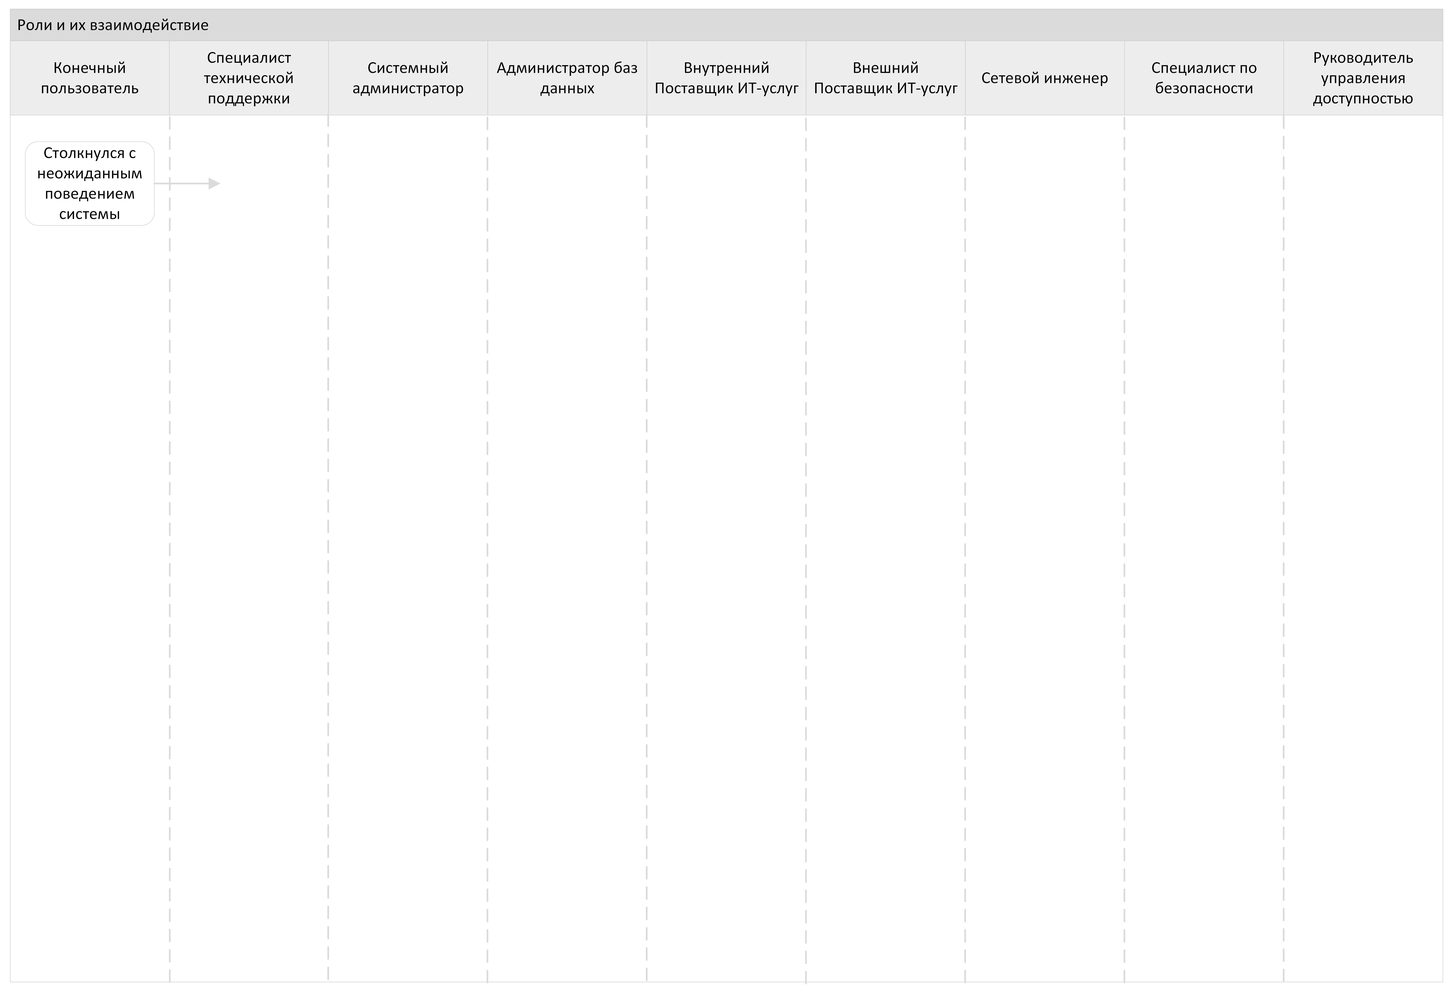
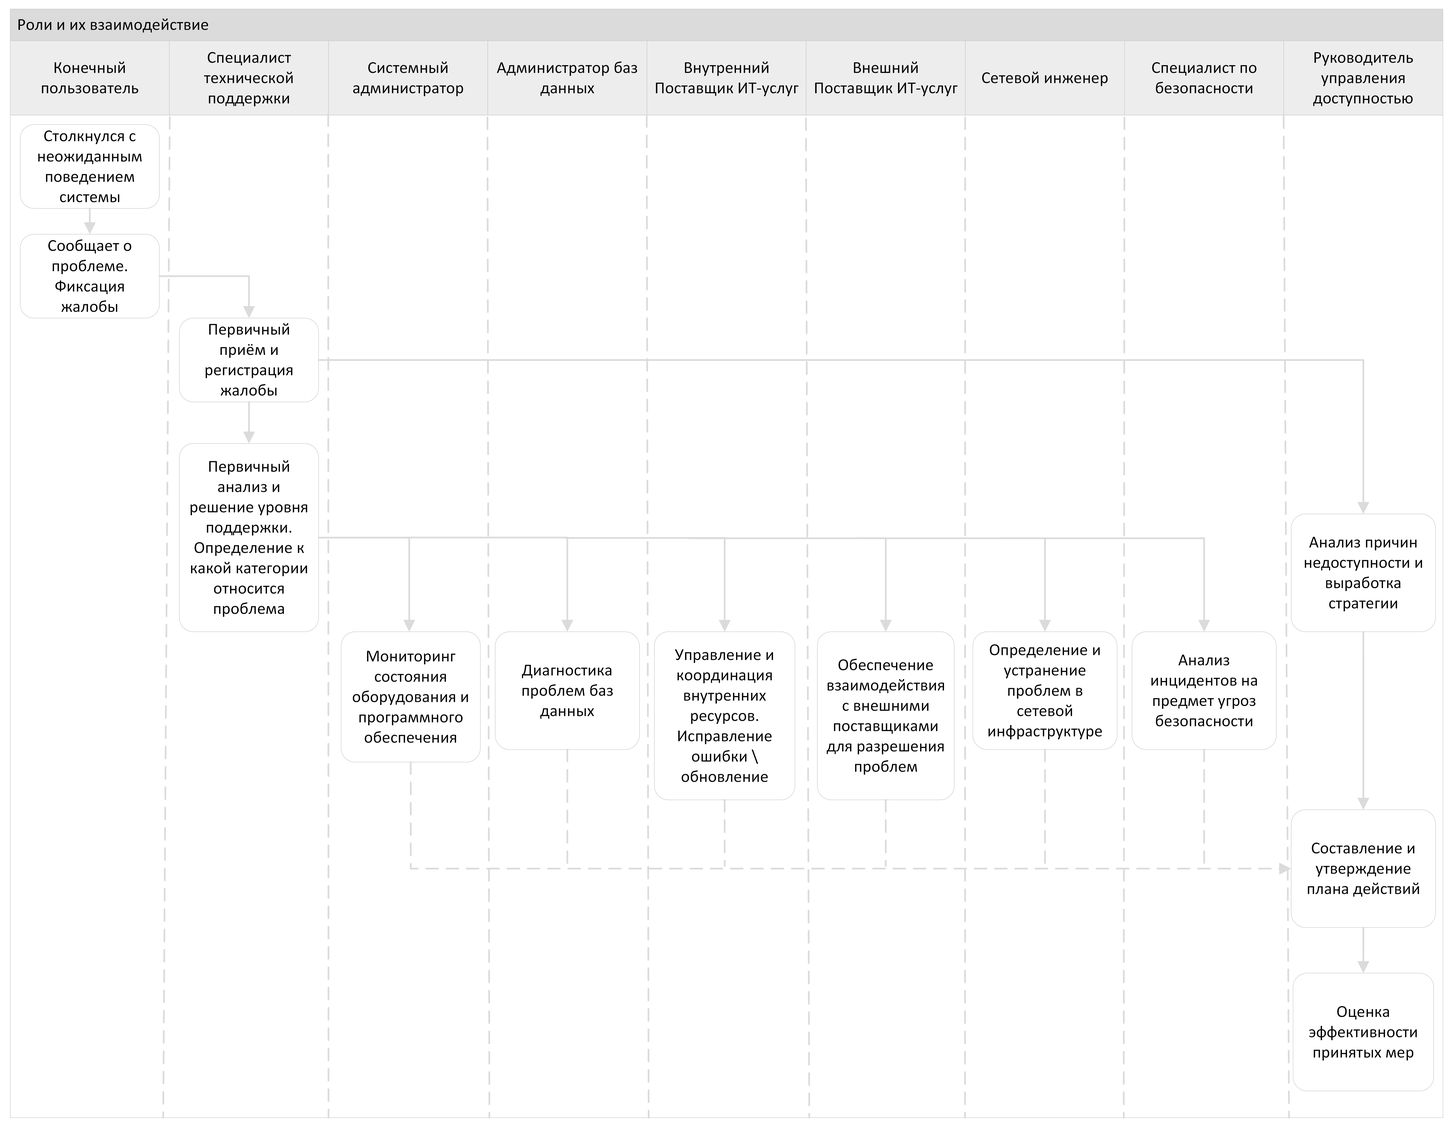
add 4, 5.1

diff --git a/doc.md b/doc.md
@@ -110,62 +110,45 @@
 - **Эксплуатационный отдел**: отвечает за надежность оборудования и систем, включая наладку и обслуживание IT-компонентов, используемых в производственных процессах.
 - **Конечные пользователи**: персонал, который в своей работе зависит от доступности IT-ресурсов.
 
-Задействованные Роли:
-- Конечный пользователь
-- Специалист технической поддержки
-- Системный администратор
-- Администратор баз данных
-- Внутренний Поставщик ИТ-услуг
-- Внешний Поставщик ИТ-услуг
-- Сетевой инженер
-- Специалист по безопасности
-- Руководитель процесса управления доступностью
-
-// TODO:
 ![Схема 2 - Общая схема взаимодействия ролей управления доступностью](./BPMN1.png "Общая схема взаимодействия ролей управления доступностью")
 
-1. **Конечный пользователь:**
-   - Событие запуска: Запрос на доступ или сообщение об ограничении доступа.
-   - Событие окончания: Получение доступа к необходимым ресурсам или информация об устранении ограничения.
-
-2. **Специалист технической поддержки:**
-   - Событие запуска: Получение заявки на техническую помощь от конечного пользователя.
-   - Событие окончания: Предоставление решения или направление заявки соответствующему специалисту.
-
-3. **Системный администратор:**
-   - Событие запуска: Запрос на изменение конфигураций системы для обеспечения доступности.
-   - Событие окончания: Выполнение необходимых настроек и подтверждение об успешном изменении.
-
-4. **Администратор баз данных:**
-   - Событие запуска: Требование обеспечения доступа к данным или об устранении проблем с базой данных.
-   - Событие окончания: Восстановление функционирования базы данных или предоставление нужного доступа к данным.
-
-5. **Внутренний Поставщик ИТ-услуг:**
-   - Событие запуска: Поступление внутреннего заказа на ИТ-сервисы или инфраструктуру.
-   - Событие окончания: Выполнение заказа и предоставление службы/ресурса.
-
-6. **Внешний Поставщик ИТ-услуг:**
-   - Событие запуска: Оформление запроса на обслуживание или предоставление внешних ИТ-услуг.
-   - Событие окончания: Получение подтверждения о выполнении заказа от поставщика.
-
-7. **Сетевой инженер:**
-   - Событие запуска: Необходимость в устранении сетевой проблемы или выпуске обновления конфигурации.
-   - Событие окончания: Устранение неполадок и оптимизация работы сети.
-
-8. **Специалист по безопасности:**
-   - Событие запуска: Обнаружение угроз безопасности, влияющих на доступность.
-   - Событие окончания: Устранение угрозы и восстановление безопасной рабочей среды.
-
-9. **Руководитель процесса управления доступностью:**
-   - Событие запуска: Планирование и координация цикла управления доступностью.
-   - Событие окончания: Отчет о статусе и оценка эффективности процессов по управлению доступностью.
+### Описание шагов общей схемы
+1. **Фиксация жалобы на недоступность сервиса или системы** – пользователь сообщает о проблеме.
+2. **Первичный приём и регистрация жалобы** – техподдержка регистрирует обращение пользователя.
+3. **Первичный анализ и решение уровня поддержки** – техподдержка проводит первичный анализ и пытается устранить простые проблемы.
+4. **Мониторинг состояния оборудования и программного обеспечения** – тистемный администратор контролирует работу серверов и сервисов.
+5. **Диагностика проблем баз данных** – админ БД обеспечивает стабильность и производительность баз данных.
+6. **Управление и координация внутренних ресурсов** – организация решения проблемы с помощью внутренних ИТ-ресурсов.
+7. **Координация действий с внешними поставщиками** – обеспечение взаимодействия с внешними поставщиками для разрешения проблем.
+8. **Анализ и решение проблем сети** – определение и устранение проблем в сетевой инфраструктуре.
+9. **Оценка проблемы с точки зрения безопасности** – анализ инцидентов на предмет угроз безопасности данных.
+10. **Анализ причин недоступности и выработка стратегии** – глубокий анализ случившегося и формирование стратегического плана по предотвращению подобных проблем в будущем.
+11. **Составление и утверждение плана действий** – разработка и утверждение плана действий, а также обеспечение его выполнения.
+12. **Оценка эффективности принятых мер** – последующая оценка результативности предпринятых мер с целью продолжительного улучшения процессов.
 
 # 5. Описание этапов процесса
 ## 5.1 Мониторинг и оценка доступности
-### 5.1.1 Мониторинг всех аспектов доступности, надежности и обслуживаемости ИТ сервисов и поддерживающих их компонентов.
-### 5.1.2 Поддержание комплекса методов, приемов и расчетов для всех измерений и метрик по доступности и отчетности.
-Проведение измерений и составление отчетов
+Процессы
+- Мониторинг всех аспектов доступности, надежности и обслуживаемости ИТ сервисов и поддерживающих их компонентов.
+Этот процесс включает в себя динамичное отслеживание за состоянием ИТ-инфраструктуры, в том числе за сервисами и компонентами, которые обеспечивают их бесперебойную работу. Задача мониторинга - гарантировать, что все ИТ-системы функционируют надежно и доступны пользователю, а также обеспечить эффективное управление изменениями и инцидентами. Мониторинг помогает оперативно идентифицировать возможные уязвимости и проблемы, влияющие на качество и доступность сервисов, что позволяет своевременно реагировать и минимизировать их отрицательное влияние на бизнес.
+- Поддержание комплекса методов, приемов и расчетов для всех измерений и метрик по доступности и отчетности.
+Этот процесс задействует разработку и использование стандартизированных протоколов и алгоритмов для измерения и отслеживания метрик доступности и производительности ИТ-сервисов. Целью является обеспечение наличия точных и последовательных данных, которые можно использовать для формирования аналитических отчетов и целенаправленного улучшения ИТ-услуг. Процесс предполагает постоянную оценку и улучшение инструментов измерения для того, чтобы обеспечить релевантность собираемой информации и помочь руководству в принятии обоснованных управленческих решений.
 
+![Схема 3 - Cхема этапа Мониторинга и оценки доступности](./BPMN2.png "Cхема этапа Мониторинга и оценки доступности")
+
+| № | Шаг                        | Описание                                                                                       | Результат                                           | Действия в Service Desk                 |
+|---|----------------------------|------------------------------------------------------------------------------------------------|-----------------------------------------------------|------------------------------------------|
+| 1 | Выявление потребностей в мониторинге | Определение требований к мониторингу и уровням служб (SLA), утверждение стратегии мониторинга. | Определены требования к мониторингу и SLA.         | Получение запросов от пользователей и уточнение требований к мониторингу. |
+| 2 | Настройка инструментов мониторинга      | Конфигурация систем мониторинга с учетом установленных ранее требований.                    | Настроенные инструменты мониторинга.                | Установка и настройка инструментов мониторинга на сервере. |
+| 3 | Осуществление мониторинга              | Регулярный сбор данных от систем мониторинга для оценки производительности и доступности сервисов. | Собранные данные от систем мониторинга.           | Мониторинг работы систем и сервисов. |
+| 4 | Обнаружение инцидентов                 | Идентификация сбоев или падений систем на основе предоставленной информации по мониторингу. | Обнаруженные инциденты.                             | Обработка и регистрация обнаруженных инцидентов. |
+| 5 | Первичная обработка инцидентов         | Прием и регистрация инцидентов, предварительная диагностика и принятие мер по устранению простых проблем. | Зарегистрированные и обработанные инциденты.       | Предварительная диагностика и решение простых проблем. |
+| 6 | Решение сложных проблем                 | Вовлечение в анализ и устранение сложных технических проблем, которые не могут разрешить первая линия поддержки. | Решенные сложные проблемы.                        | Вовлекается специалист по сложным техническим проблемам. |
+| 7 | Коммуникация с конечными пользователями  | Уведомление конечных пользователей о статусе их запросов и инцидентов, включая решенные вопросы. | Уведомленные конечные пользователи.                 | Обратная связь с пользователями о решенных запросах и инцидентах. |
+| 8 | Анализ и доклад о мониторинге и инцидентах | Подготовка и предоставление отчетности руководству о производительности, о выявленных проблемах и о предпринятых мерах по улучшению. | Подготовленные отчеты и аналитика.                 | Подготовка отчетности о мониторинге и инцидентах. |
+| 9 | Рассмотрение и планирование улучшений    | Принятие решений относительно изменений инфраструктуры, улучшения потоков работы или внедрения новых инструментов мониторинга. | Принятые и запланированные улучшения.            | Принятие управленческих решений по улучшению инфраструктуры. |
+
+// TODO:
 ## 5.2 Анализ причин недоступности
 ### 5.2.1 Оценка и управление рисками
 ### 5.2.2 Сбор метрик, анализ и производство регулярных и специальных отчетов по доступности ИТ сервиса и компонентов.
